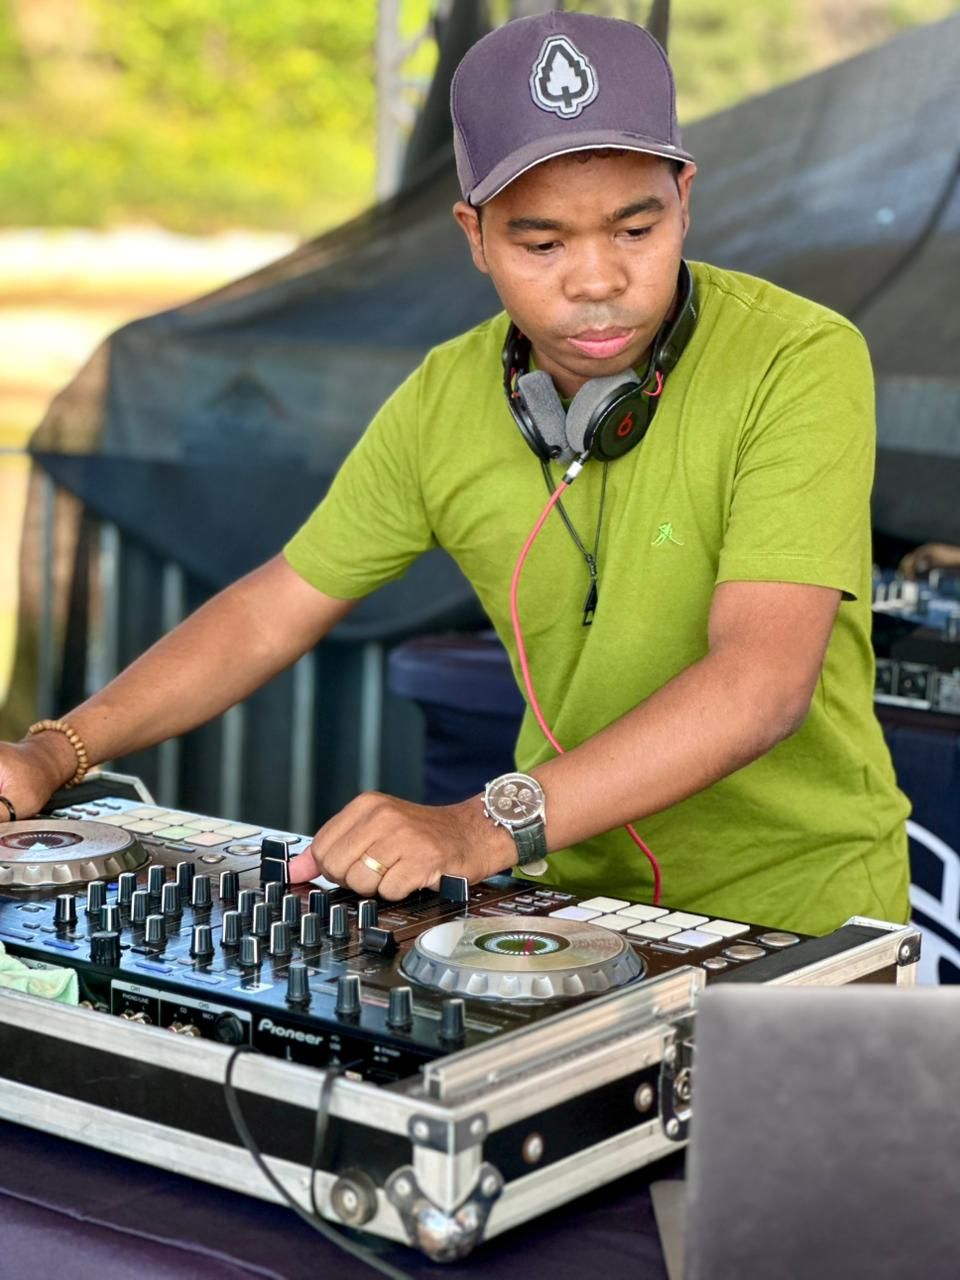
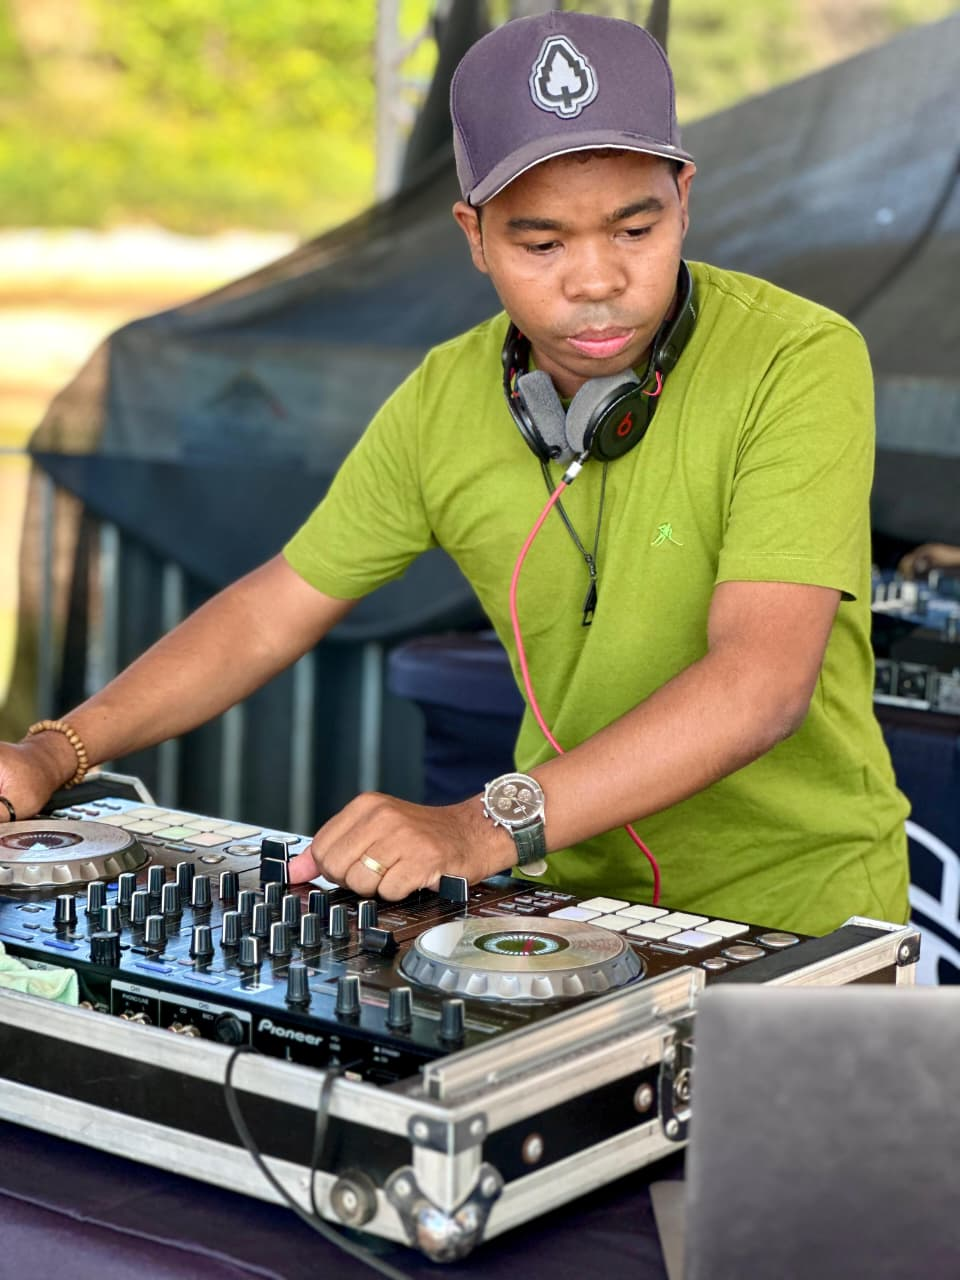
feat: adiciona seção reels com imagem de fundo e degradês para melhor apresentação

diff --git a/css/styles.css b/css/styles.css
@@ -17,16 +17,17 @@
 
 /* ===== HERO (capa) ===== */
 .hero {
-
     position: relative;
     min-height: 88vh;
     display: flex;
     align-items: center;
     justify-content: center;
     background: #000 center/cover no-repeat;
-    background-position: center 18%; /* prioriza a parte superior da foto */
+    background-position: center 18%;
+    /* prioriza a parte superior da foto */
     overflow: hidden;
 }
+
 /* degradê superior e inferior para esconder início/fim da imagem */
 .hero::before,
 .hero::after {
@@ -38,27 +39,34 @@
     pointer-events: none;
     z-index: 1;
 }
-        .hero::before { /* topo + laterais */
-            top: 0;
-            bottom: 0; /* cobre toda a altura para permitir laterais */
-            height: auto; /* sobrescreve altura definida no grupo */
-            background:
-                /* topo mais presente, leve aumento */
-                linear-gradient(to bottom, rgba(0,0,0,0.85) 0%, rgba(0,0,0,0) 22%),
-                /* lateral esquerda (mais discreta no desktop) */
-                linear-gradient(to right, rgba(0,0,0,0.18) 0%, rgba(0,0,0,0) 12%),
-                /* lateral direita (mais discreta no desktop) */
-                linear-gradient(to left, rgba(0,0,0,0.18) 0%, rgba(0,0,0,0) 12%);
-        }
-.hero::after { /* base */
+
+.hero::before {
+    /* topo + laterais */
+    top: 0;
     bottom: 0;
-    height: 34vh; /* aumenta a faixa inferior para mesclar melhor */
-    background: linear-gradient(
-        to top,
-    var(--cor-fundo, #211e1e) 0%,
-    rgba(0,0,0,0.85) 35%,
-    rgba(0,0,0,0) 75%
-    );
+    /* cobre toda a altura para permitir laterais */
+    height: auto;
+    /* sobrescreve altura definida no grupo */
+    background:
+        /* topo mais presente, leve aumento */
+        linear-gradient(to bottom,
+            rgba(0, 0, 0, 0.85) 0%,
+            rgba(0, 0, 0, 0) 22%),
+        /* lateral esquerda (mais discreta no desktop) */
+        linear-gradient(to right, rgba(0, 0, 0, 0.18) 0%, rgba(0, 0, 0, 0) 12%),
+        /* lateral direita (mais discreta no desktop) */
+        linear-gradient(to left, rgba(0, 0, 0, 0.18) 0%, rgba(0, 0, 0, 0) 12%);
+}
+
+.hero::after {
+    /* base */
+    bottom: 0;
+    height: 34vh;
+    /* aumenta a faixa inferior para mesclar melhor */
+    background: linear-gradient(to top,
+            var(--cor-fundo, #211e1e) 0%,
+            rgba(0, 0, 0, 0.85) 35%,
+            rgba(0, 0, 0, 0) 75%);
 }
 
 .hero-content {
@@ -75,7 +83,7 @@
 .hero .mylogo {
     width: min(88vw, 520px);
     height: auto;
-    filter: drop-shadow(0 4px 24px rgba(0,0,0,0.6));
+    filter: drop-shadow(0 4px 24px rgba(0, 0, 0, 0.6));
 }
 
 .hero-actions {
@@ -83,6 +91,7 @@
     gap: 1.4rem;
     margin-top: 0.2rem;
 }
+
 .hero-btn {
     width: 68px;
     height: 68px;
@@ -96,8 +105,9 @@
     text-decoration: none;
     background: var(--color-primary, #e9ff2b);
     backdrop-filter: blur(2px);
-    transition: transform .2s ease, background .2s ease, box-shadow .2s ease;
+    transition: transform 0.2s ease, background 0.2s ease, box-shadow 0.2s ease;
 }
+
 .hero-btn:hover {
     transform: scale(1.06);
     background: #111;
@@ -106,64 +116,121 @@
 }
 
 .hero-arrow {
-    margin-top: .2rem;
+    margin-top: 0.2rem;
     color: var(--color-light, #ffffff);
     font-size: 28px;
     text-decoration: none;
     animation: arrowPulse 2.2s infinite;
 }
+
 @keyframes arrowPulse {
-    0%, 100% { transform: translateY(0); opacity: 0.9; }
-    50% { transform: translateY(8px); opacity: 0.6; }
+
+    0%,
+    100% {
+        transform: translateY(0);
+        opacity: 0.9;
+    }
+
+    50% {
+        transform: translateY(8px);
+        opacity: 0.6;
+    }
 }
 
 .hero-social {
     position: absolute;
     bottom: calc(env(safe-area-inset-bottom, 0px) + 28px);
-    left: 0; right: 0;
+    left: 0;
+    right: 0;
     display: flex;
     justify-content: center;
     z-index: 2;
 }
+
 .hero-social .social-circles {
     gap: 1rem;
 }
+
 .hero-social .social-btn {
-    width: 54px; height: 54px; font-size: 1.6rem;
-    background: var(--color-primary, #e9ff2b); color: #111; border: none; box-shadow: none;
+    width: 54px;
+    height: 54px;
+    font-size: 1.6rem;
+    background: var(--color-primary, #e9ff2b);
+    color: #111;
+    border: none;
+    box-shadow: none;
 }
+
 .hero-social .social-btn:hover {
-    background: #111; color: var(--color-primary, #e9ff2b);
+    background: #111;
+    color: var(--color-primary, #e9ff2b);
 }
 
 @media (max-width: 576px) {
-    .hero { min-height: 88vh; background-position: center 12%; }
-    .hero .mylogo { width: min(86vw, 380px); }
-    .hero-btn { width: 58px; height: 58px; font-size: 22px; }
-    .hero-social .social-btn { width: 44px; height: 44px; font-size: 1.3rem; }
-    .hero-social { bottom: calc(env(safe-area-inset-bottom, 0px) + 22px); }
-    .hero::before {
-        top: 0; bottom: 0; height: auto;
-        background:
-            linear-gradient(to bottom, rgba(0,0,0,0.9) 0%, rgba(0,0,0,0) 26%),
-            linear-gradient(to right, rgba(0,0,0,0.4) 0%, rgba(0,0,0,0) 16%),
-            linear-gradient(to left, rgba(0,0,0,0.4) 0%, rgba(0,0,0,0) 16%);
+    .hero {
+        min-height: 88vh;
+        background-position: center 12%;
     }
+
+    .hero .mylogo {
+        width: min(86vw, 380px);
+    }
+
+    .hero-btn {
+        width: 58px;
+        height: 58px;
+        font-size: 22px;
+    }
+
+    .hero-social .social-btn {
+        width: 44px;
+        height: 44px;
+        font-size: 1.3rem;
+    }
+
+    .hero-social {
+        bottom: calc(env(safe-area-inset-bottom, 0px) + 22px);
+    }
+
+    .hero::before {
+        top: 0;
+        bottom: 0;
+        height: auto;
+        background: linear-gradient(to bottom,
+                rgba(0, 0, 0, 0.9) 0%,
+                rgba(0, 0, 0, 0) 26%),
+            linear-gradient(to right, rgba(0, 0, 0, 0.4) 0%, rgba(0, 0, 0, 0) 16%),
+            linear-gradient(to left, rgba(0, 0, 0, 0.4) 0%, rgba(0, 0, 0, 0) 16%);
+    }
+
     .hero::after {
         height: 24vh;
-        background: linear-gradient(
-            to top,
-            var(--cor-fundo, #211e1e) 0%,
-            rgba(0,0,0,0.8) 35%,
-            rgba(0,0,0,0) 75%
-        );
+        background: linear-gradient(to top,
+                var(--cor-fundo, #211e1e) 0%,
+                rgba(0, 0, 0, 0.8) 35%,
+                rgba(0, 0, 0, 0) 75%);
     }
 }
 
 @media (min-width: 1024px) {
     .hero {
-    min-height: 86vh; /* aumenta a parte inferior visível */
-    background-position: center 14%;
+        min-height: 86vh;
+        /* aumenta a parte inferior visível */
+        background-position: center 14%;
+    }
+
+    /* Reels: mostrar imagem completa no desktop */
+    .reels {
+        background-size: contain;
+        background-repeat: no-repeat;
+        background-position: center top;
+        min-height: 70vh;
+        padding: 3rem 0;
+        /* espaço para os ícones e título */
+    }
+
+    .reels::after {
+        height: 16vh;
     }
 }
 
@@ -453,6 +520,67 @@ li::before {
     flex-wrap: wrap;
 }
 
+/* ===== REELS (fundo com imagem + degradês) ===== */
+.reels {
+    position: relative;
+    background: #000 center/cover no-repeat;
+    overflow: hidden;
+}
+
+.reels::before,
+.reels::after {
+    content: "";
+    position: absolute;
+    left: 0;
+    right: 0;
+    pointer-events: none;
+    z-index: 1;
+}
+
+.reels::before {
+    /* topo + laterais */
+    top: 0;
+    bottom: 0;
+    background: linear-gradient(to bottom,
+            rgba(0, 0, 0, 0.7) 0%,
+            rgba(0, 0, 0, 0) 22%),
+        linear-gradient(to right, rgba(0, 0, 0, 0.14) 0%, rgba(0, 0, 0, 0) 12%),
+        linear-gradient(to left, rgba(0, 0, 0, 0.14) 0%, rgba(0, 0, 0, 0) 12%);
+}
+
+.reels::after {
+    /* base */
+    bottom: 0;
+    height: 24vh;
+    background: linear-gradient(to top,
+            var(--cor-fundo, #211e1e) 0%,
+            rgba(0, 0, 0, 0.8) 35%,
+            rgba(0, 0, 0, 0) 75%);
+}
+
+.reels>* {
+    position: relative;
+    z-index: 2;
+}
+
+@media (max-width: 768px) {
+    .reels {
+        background-position: center 30%;
+    }
+
+    .reels::before {
+        background: linear-gradient(to bottom,
+                rgba(0, 0, 0, 0.78) 0%,
+                rgba(0, 0, 0, 0) 26%),
+            linear-gradient(to right, rgba(0, 0, 0, 0.22) 0%, rgba(0, 0, 0, 0) 16%),
+            linear-gradient(to left, rgba(0, 0, 0, 0.22) 0%, rgba(0, 0, 0, 0) 16%);
+    }
+
+    .reels::after {
+        height: 28vh;
+    }
+}
+
 /* Imagem da logo */
 /* Ícone Instagram Font Awesome */
 .logo-instagram {
@@ -517,7 +645,8 @@ li::before {
     justify-content: center;
     align-items: center;
     text-decoration: none;
-    z-index: 2147483647; /* garantir sobreposição no mobile */
+    z-index: 2147483647;
+    /* garantir sobreposição no mobile */
     animation: bounce 3s infinite ease-in-out;
     filter: drop-shadow(0px 0px 4px var(--cor-destaque));
     font-size: 45px;
@@ -537,7 +666,8 @@ li::before {
 
 .back-to-top {
     position: fixed;
-    bottom: 130px; /* fallback desktop */
+    bottom: 130px;
+    /* fallback desktop */
     /* fica acima do WhatsApp */
     right: 26px;
     width: 52px;
@@ -578,8 +708,10 @@ li::before {
     bottom: calc(env(safe-area-inset-bottom, 0px) + 20px);
     right: calc(env(safe-area-inset-right, 0px) + 16px);
 }
+
 .back-to-top {
-    bottom: calc(env(safe-area-inset-bottom, 0px) + 96px); /* 60px (whatsapp) + 16px gap + margem */
+    bottom: calc(env(safe-area-inset-bottom, 0px) + 96px);
+    /* 60px (whatsapp) + 16px gap + margem */
     right: calc(env(safe-area-inset-right, 0px) + 22px);
 }
 

diff --git a/index.html b/index.html
@@ -34,9 +34,8 @@
     <section class="elementor-section elementor-top-section elementor-section-boxed elementor-section-height-default"
       id="topo-desk">
       <div class="elementor-container elementor-column-gap-default">
-        <div class="elementor-column elementor-col-100 elementor-top-column minha-coluna-fundo">
+  <div class="elementor-column elementor-col-100 elementor-top-column">
           <div class="elementor-widget-wrap elementor-element-populated">
-            <div class="elementor-background-overlay"></div>
             <nav>
               <a href="index.html">Home</a>
               <a href="#galeria">Galeria</a>
@@ -164,7 +163,7 @@
       <img src="assets/images/preview-drone.png" alt="Prévia do vídeo" />
     </video>
   </section>
-  <section class="reels">
+  <section class="reels" style="background-image:url('assets/images/dj2.jpeg');">
     <h2>🎬 Reels no Instagram</h2>
     <div class="reels-container">
       <a href="https://www.instagram.com/dhyogodj" target="_blank" class="logo-link">
@@ -190,8 +189,8 @@
   <section id="parcerias" class="parcerias">
     <h2>🤝 Parcerias e Indicações</h2>
     <p>
-      Trago comigo uma rede de profissionais que fazem eventos acontecerem com perfeição. Som de qualidade, timing e
-      alinhamento garantem minha presença em produções de excelência.
+      Conto com uma rede de profissionais que transformam eventos em experiências impecáveis. 
+      Som e iluminação de alta qualidade, aliados a um alinhamento perfeito, garantem minha presença em produções de excelência.
     </p>
   </section>
   <section id="contato" class="contato">
